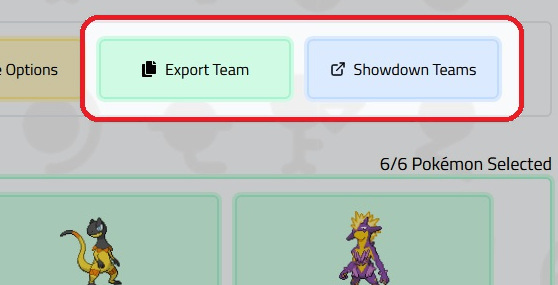
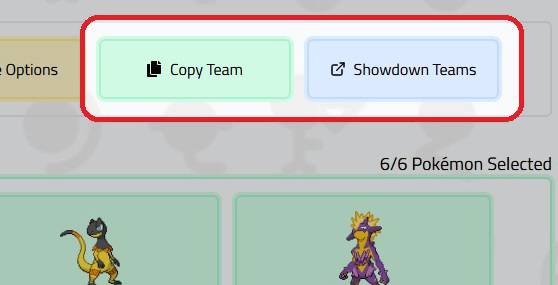
add team preview

Changed region(s): [[0.2437, 0.1965, 0.457, 0.2807]]

diff --git a/src/components/preview/PokemonPreview.js b/src/components/preview/PokemonPreview.js
@@ -1,0 +1,55 @@
+import React from 'react'
+//import { TeamBuilderContext } from '../../context/TeamBuilderContext';
+import PokemonSprite from '../pokemon/PokemonSprite';
+import PokemonType from '../pokemon/PokemonType';
+import MoveCategory from '../moves/MoveCategory';
+
+export default function PokemonPreview({preview}) {
+    //const context = React.useContext(TeamBuilderContext);
+
+    return (
+        <div className="animate-enter flex flex-col gap-2 justify-center items-center bg-white rounded-md p-2 w-96 h-auto border-2 border-gray-200 transition duration-150 ease-in-out">                                    
+            <div className="grid grid-cols-2 grid-rows-1 w-full">
+                <div className="flex items-center justify-center">
+                    <PokemonSprite pokemon={preview.pokemon} types={true} stats={true} /> 
+                </div>                
+                <div className="flex flex-col items-center justify-between">
+                    <div className="bg-white rounded-md p-0 w-full h-8 border-none border-gray-200 flex gap-1 px-1 items-center justify-center text-xs capitalize">
+                        {/* <input type="text" placeholder="Nickname" value={preview.pokemon.nickname} onChange={(e) => context.setNickname(preview.pokemon.id, e.target.value)} 
+                            className="w-full border-b-2 border-gray-200 text-center focus:outline-none"
+                        /> */}
+                        <p className="capitalize w-full truncate text-center">{preview.pokemon.name.replace(/-/g, " ")} {`Lv${preview.pokemon.level}`}</p>
+                    </div>    
+                    <div className="w-full flex flex-col">
+                        <div className="bg-white rounded-md p-0 w-full h-8 border-2 border-gray-200 flex gap-1 px-1 items-center justify-center text-xs capitalize">
+                            {preview.ability.name.replace(/-/g, " ")}
+                        </div>    
+                        <div className="bg-white rounded-md p-0 w-full h-8 border-2 border-gray-200 flex gap-1 px-1 items-center justify-center text-xs capitalize">
+                            {preview.item.sprites.default ? <img src={preview.item.sprites.default} alt="" width="30px" height="30px"/> : null}
+                            <p className="capitalize">{preview.item.name.replace(/-/g, " ")}</p> 
+                        </div>
+                    </div>                        
+                </div>
+            </div>
+            <div className="grid grid-cols-2 grid-rows-1 w-full">
+                {
+                    preview.moveset.map((m, i) => {
+                        if(m.selected){
+                            return (
+                                <div key={i} className="bg-white rounded-md p-0 w-full h-8 border-2 border-gray-200 flex gap-1 px-1 items-center justify-between text-xs capitalize">
+                                    <p className="truncate">{m.name.replace(/-/g, " ")}</p>
+                                    <div className="flex">
+                                        <PokemonType type={m.type.name} size="sm" />
+                                        {m.damage_class ? <MoveCategory category={m.damage_class.name} size="sm" /> : null}
+                                    </div>
+                                </div> 
+                            )
+                        }
+                        else    
+                            return null;
+                    })
+                }
+            </div>
+        </div>
+    )
+}

diff --git a/src/App.js b/src/App.js
@@ -31,6 +31,12 @@ export default function App() {
   // Team builder.
   const [generating, setGenerating] = useState(false);
   const [generationStep, setGenerationStep] = useState(0);
+  /* const [teamData, setTeamData] = useState({
+    teamAuthor: '',
+    teamName: '',
+    teamNotes: '',
+  }); */
+  const [pokemonPreviews, setPokemonPreviews] = useState([]);
   const [pokemonOptions, setPokemonOptions] = useState([]);
   const [movesetOptions, setMovesetOptions] = useState([]);
   const [abilityOptions, setAbilityOptions] = useState([]);
@@ -153,6 +159,7 @@ export default function App() {
         }          
         pokemon.shiny = (index === shinyIndex);
         pokemon.level = pokemon.shiny ? 60 : 50;
+        pokemon.nickname = '';
         // stats        
         pokemon.stats.map(s => {          
           s.ev = 0;
@@ -1441,6 +1448,36 @@ export default function App() {
     setSelectionsMade(s => {return {...s, moves: mSelected}});
   }, [movesetOptions, checkSectionCompleted]);    
 
+  // Respond to changes in slections/assignments for team preview.
+  useEffect (() => {
+    let tPreview = [];
+    let pPreview = null;
+
+    pokemonOptions.forEach((po, i) => {
+      pPreview = null;
+
+      if(po.selected && 
+        po.moveset != null && selectionsMade.moves[po.moveset] >= team.selectionsNeeded.moves &&
+        po.ability != null && 
+        po.item != null){
+
+          pPreview = {
+            pokemon: po,
+            moveset: movesetOptions[po.moveset],
+            ability: abilityOptions[po.ability],
+            item: itemOptions[po.item]
+          }
+
+          tPreview.push(pPreview);
+      }
+    })
+
+    while(tPreview.length < team.selectionsNeeded.pokemons)
+      tPreview.push(null);
+
+    setPokemonPreviews(tPreview)
+  }, [pokemonOptions, movesetOptions, abilityOptions, itemOptions, selectionsMade]);
+
   // ----- HELPER FUNCTIONS -----  
   // Get total stats for a pokemon.
   const getTotalStats = (stats) => {
@@ -1490,6 +1527,19 @@ export default function App() {
   const upperCaseWords = (string) => {
     return string.replace(/\b\w/g, l => l.toUpperCase())
   }      
+
+  // ----- METADATA -----
+  // Set pokemon nicknames.
+  /* const setNickname = (pokemonId, nickname) => {    
+    let options = pokemonOptions;
+    options = options.map(p => {      
+      if(p.id === pokemonId){
+        p.nickname = nickname;
+      }
+      return p;
+    });
+    setPokemonOptions(options);
+  } */
 
   // ----- OTHERS -----
   // Show a toast notification.
@@ -1612,7 +1662,8 @@ export default function App() {
       sectionsCompleted: sectionsCompleted,
       selectPokemon: selectPokemon,
       selectMove: selectMove,
-      assignPokemon: assignPokemon
+      assignPokemon: assignPokemon,
+      //setNickname: setNickname
     }}>
       <div className="bg-gray-50 bg-unown-pattern-tiled min-h-screen">        
         <Router basename="/React-Procedural-Pokemon">
@@ -1629,6 +1680,7 @@ export default function App() {
                   <TeamBuilder
                     loading={loading}
                     randomOptions={team.randomOptions}
+                    pokemonPreviews={pokemonPreviews}
                     pokemonOptions={pokemonOptions}
                     movesetOptions={movesetOptions}
                     abilityOptions={abilityOptions}

diff --git a/src/containers/TeamBuilder.js b/src/containers/TeamBuilder.js
@@ -1,4 +1,5 @@
 import React, {useEffect} from 'react';
+import TeamPreview from '../components/preview/TeamPreview';
 import PokemonOptions from '../components/pokemon/PokemonOptions';
 import MovesetOptions from '../components/moves/MovesetOptions';
 import AbilityOptions from '../components/abilities/AbilityOptions';
@@ -10,7 +11,7 @@ import {GoPencil} from 'react-icons/go';
 import { FiExternalLink } from 'react-icons/fi';
 
 export default function TeamBuilder({
-    loading, randomOptions, pokemonOptions, movesetOptions, abilityOptions, itemOptions, generating,
+    loading, randomOptions, pokemonPreviews, pokemonOptions, movesetOptions, abilityOptions, itemOptions, generating,
     generateOptions, clearChoices, exportTeam
     }) {   
     const context = React.useContext(TeamBuilderContext);
@@ -45,7 +46,7 @@ export default function TeamBuilder({
                     <button type="button" onClick={() => exportTeam()}
                         className={`flex gap-2 items-center justify-center p-4 rounded-md hover:bg-gray-200 border-2 w-48 transition duration-150 ease-in-out
                         ${Object.values(context.sectionsCompleted).every(val => val) ? 'bg-green-100 border-green-200 ring ring-green-100' : 'bg-white  border-gray-200 '}`}>
-                        <FaCopy /> Export Team
+                        <FaCopy /> Copy Team
                     </button>
                     <a type="button" href="https://play.pokemonshowdown.com/teambuilder" target="_blank" rel="noreferrer"
                         className="flex gap-2 items-center justify-center p-4 rounded-md bg-blue-100 hover:bg-gray-200 border-2 border-blue-200 ring ring-blue-100 w-48 transition duration-150 ease-in-out">
@@ -71,7 +72,7 @@ export default function TeamBuilder({
 
     return (           
         <div className="flex flex-col gap-8 justify-start items-center p-8 w-full">  
-            <div id="controls" className="flex flex-col w-full">
+            <div id="actions" className="flex flex-col w-full">
                 <div className="flex justify-start items-center gap-4 text-center">                    
                     <p className="text-lg">Actions</p>
                     <p className="text-base text-gray-400">Controls for building your team.</p>
@@ -82,6 +83,7 @@ export default function TeamBuilder({
                     </div>                                                                       
                 </div>                                                            
             </div>
+            <TeamPreview previews={pokemonPreviews} />
             <PokemonOptions options={pokemonOptions} />
             <MovesetOptions options={movesetOptions} />  
             <AbilityOptions options={abilityOptions} />   

diff --git a/src/components/preview/TeamPreview.js b/src/components/preview/TeamPreview.js
@@ -1,0 +1,53 @@
+import React from 'react';
+import { TeamBuilderContext } from '../../context/TeamBuilderContext';
+import PokemonPreview from './PokemonPreview';
+
+export default function TeamPreview({ previews }) {
+    const context = React.useContext(TeamBuilderContext);
+
+    const getValidPreviews = () => {
+        let count = 0;
+        previews.forEach(p => { 
+            if(p != null)
+                count += 1;            
+        });
+        return count;
+    }
+    
+    const setPreviews = () => {
+        return (
+            previews.map((p, i) => {
+                if(p){
+                    return <PokemonPreview key={i} preview={p} />
+                }
+                else{
+                    return (
+                        <div key={i} className="relative w-24 h-24 animate-enter" >
+                            <div className="absolute w-24 h-24 rounded-full bg-gray-100 border-2 border-gray-200 ring ring-gray-100 animate-pulse" />
+                            <img src="https://raw.githubusercontent.com/PokeAPI/sprites/master/sprites/pokemon/201-question.png"
+                                alt="" width="96px" height="96px"
+                                className="absolute w-24 h-24 animate-wiggle"
+                            />
+                        </div>
+                    )
+                }
+            })
+        );
+    }    
+
+    return (
+        <div id="pokemon" className="flex flex-col w-full">
+            <div className="flex justify-between items-center gap-4 text-center">
+                <span className="flex gap-4 items-center">
+                    <p className="text-lg">Team Preview</p>
+                    <p className="text-base text-gray-400">See your current team.</p>
+                </span>
+                <p className="text-lg">{getValidPreviews()}/{context.selectionsNeeded.pokemons} Pokémon Ready</p>
+            </div>            
+            <div className={`flex flex-wrap justify-center items-center gap-4 p-4 w-full border-2 rounded-md border-gray-200 transition duration-150 ease-in-out
+                ${getValidPreviews() >= context.selectionsNeeded.pokemons ? 'border-green-200 ring ring-green-100' : ''}`}>
+                { setPreviews() }
+            </div>            
+        </div>
+    );    
+}

diff --git a/src/components/moves/MoveCategory.js b/src/components/moves/MoveCategory.js
@@ -1,6 +1,6 @@
 import React from 'react'
 
-export default function MoveCategory({category}) {
+export default function MoveCategory({category, size = 'md'}) {
     const getColor = () => {
         switch(category){
             case 'physical': return 'bg-red-600';
@@ -10,8 +10,17 @@ export default function MoveCategory({category}) {
         }
     }
 
+    const getSize = () => {
+        switch(size){
+            case 'sm':
+                return 'w-auto text-xs px-1 py-0.5'
+            default:
+                return 'w-16 text-sm px-1.5 py-0.5';
+        }
+    }
+
     return (
-        <p className={`flex items-center justify-center w-16 capitalize text-sm px-1.5 py-0.5 rounded-md text-white font-semibold ${getColor()}`}>
+        <p className={`flex items-center justify-center ${getSize()} capitalize rounded-md text-white font-semibold ${getColor()}`}>
             {category}
         </p>
     )

diff --git a/src/components/Sidebar.js b/src/components/Sidebar.js
@@ -29,7 +29,7 @@ export default function Sidebar() {
                         <p>Team Builder</p>
                     </NavLink>
                     {location.pathname === "/builder" ? <div className="flex flex-col">
-                        <HashLink smooth to="/builder#controls"
+                        <HashLink smooth to="/builder#actions"
                             className="w-full flex justify-between items-center pr-4 pl-12 py-1 border-r-4 border-transparent hover:bg-gray-300 transition duration-150 ease-in-out">
                             <p>Actions</p>
                             {Object.values(context.sectionsCompleted).every(val => val) ? <FaCopy className="text-green-400 animate-enter" /> : null}
